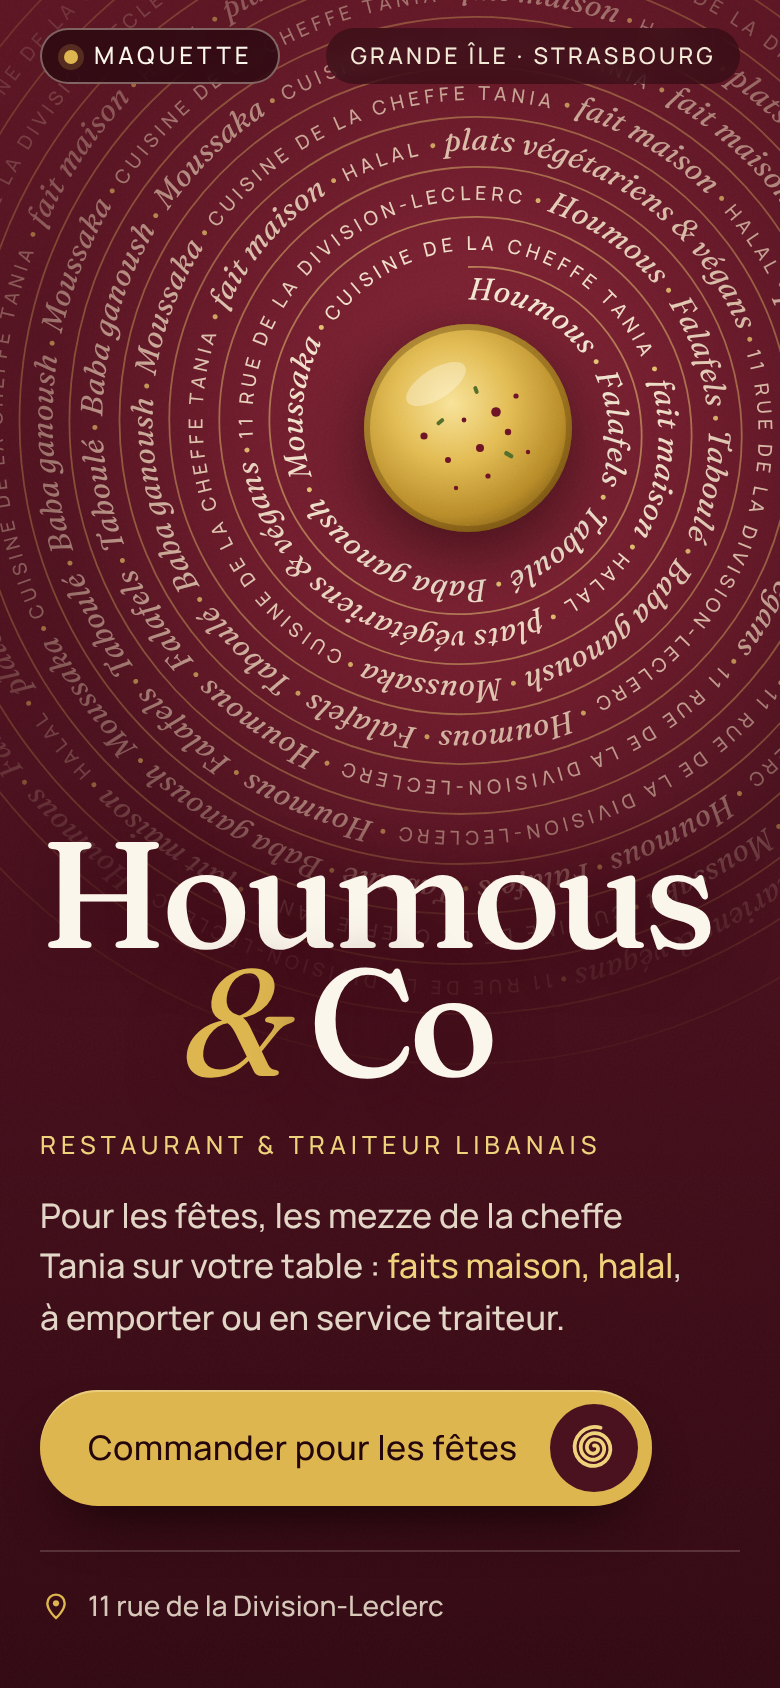
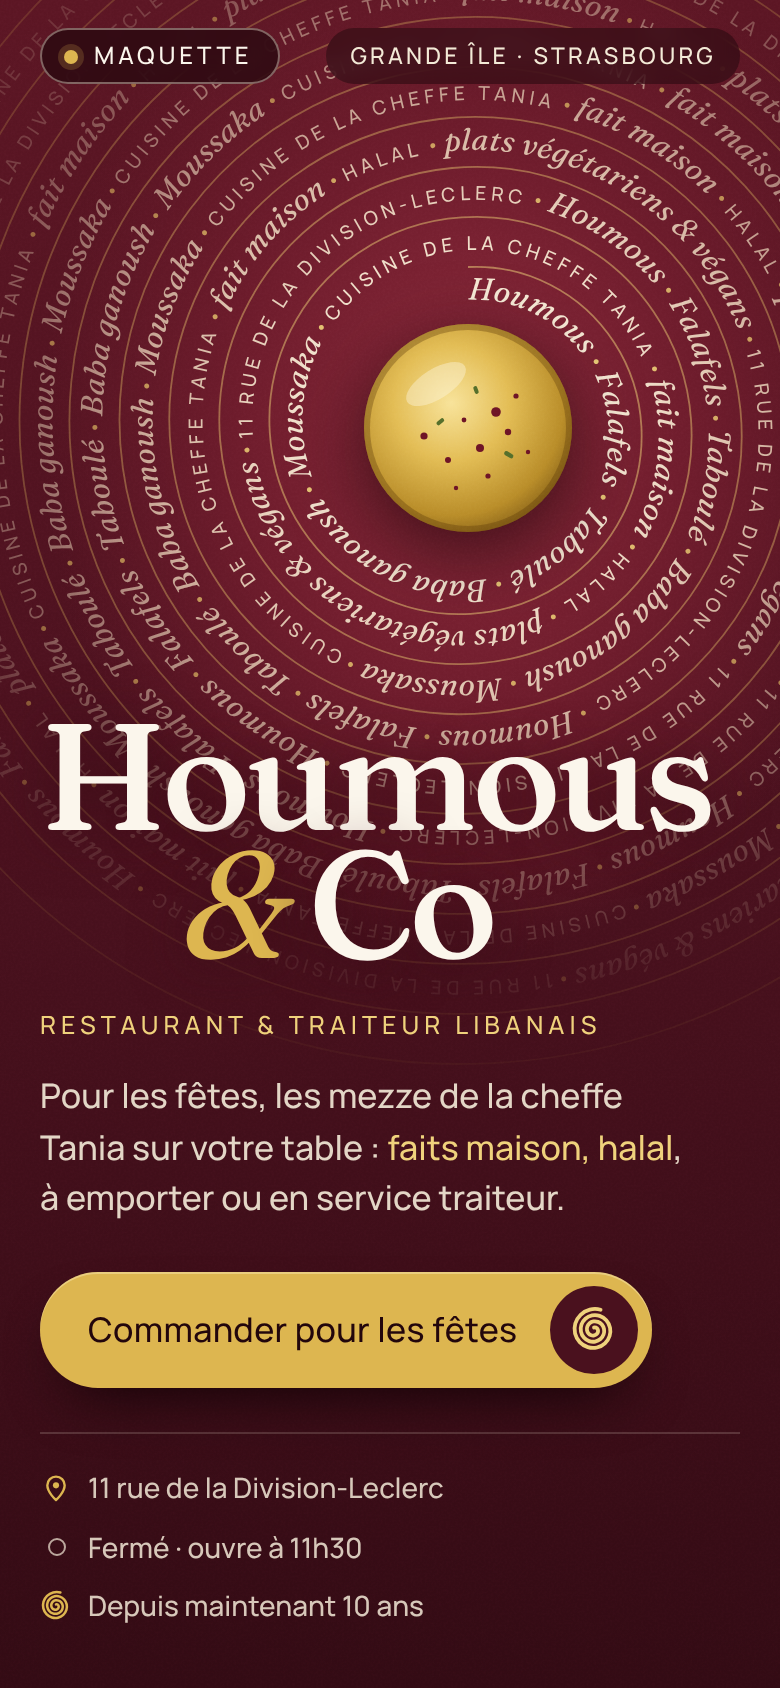
Lot du 17/11 : maquettes Bieber et Houmous & Co mises à jour avec les faits de leurs sites (en cours de revue)
Claude-Session: https://claude.ai/code/session_017W9xX3Z6MARgCjKNmo7Q8i

Changed region(s): [[0.0308, 0.4313, 0.9231, 0.955]]

diff --git a/prospection/lots/2026-11-17/web/demo/boucherie-natacha-bieber/index.html b/prospection/lots/2026-11-17/web/demo/boucherie-natacha-bieber/index.html
@@ -198,6 +198,8 @@ input:focus,textarea:focus{border-color:var(--sang)}
   color:var(--encre);text-decoration:none;font-size:13px;letter-spacing:.14em;text-transform:uppercase;text-align:center;transition:background-color .2s}
 .btn:hover{background:rgba(122,28,36,.07)}
 .btn small{display:block;font-size:14px;letter-spacing:.02em;text-transform:none;color:var(--encre-douce)}
+.seconde{margin:22px 0 0;padding-top:14px;border-top:1px solid var(--filet);color:var(--encre-douce);font-size:15px;line-height:1.45;max-width:560px}
+.seconde .capitale{display:block;margin-bottom:4px;color:var(--acier)}
 
 /* Pied de page */
 .pied{margin-top:72px;padding:0 0 112px}
@@ -386,13 +388,13 @@ dialog::backdrop{background:rgba(34,20,15,.74)}
           <p class="texte">Viande de boucherie et charcuterie maison. Prix et disponibilités&nbsp;: au comptoir ou au téléphone.</p>
         </div>
         <ul class="etiquettes revele">
-          <li><span class="etiquette" style="--r:-2.2deg"><span class="cat capitale">Bœuf</span><span class="plat">maturé</span></span></li>
-          <li><span class="etiquette" style="--r:1.6deg"><span class="cat capitale">Porc du Cantal</span><span class="plat">travers</span></span></li>
-          <li><span class="etiquette" style="--r:1.2deg"><span class="cat capitale">Agneau</span><span class="plat">côtelettes</span></span></li>
-          <li><span class="etiquette" style="--r:-1.8deg"><span class="cat capitale">Charcuterie maison</span><span class="plat">boudin brioché</span></span></li>
-          <li class="large"><span class="etiquette" style="--r:-.8deg"><span class="cat capitale">Charcuterie maison</span><span class="plat">jambon en croûte</span></span></li>
+          <li><span class="etiquette" style="--r:-2.2deg"><span class="cat capitale">Cochon fermier du Cantal</span><span class="plat">côte première</span></span></li>
+          <li><span class="etiquette" style="--r:1.6deg"><span class="cat capitale">Agneau</span><span class="plat">côtelettes doubles</span></span></li>
+          <li><span class="etiquette" style="--r:1.2deg"><span class="cat capitale">Porc noir de Bigorre</span><span class="plat">joues à la bière brune</span></span></li>
+          <li><span class="etiquette" style="--r:-1.8deg"><span class="cat capitale">Affinage</span><span class="plat">viande maturée</span></span></li>
+          <li class="large"><span class="etiquette" style="--r:-.8deg"><span class="cat capitale">Préparations maison</span><span class="plat">poitrine de veau farcie, paupiettes</span></span></li>
         </ul>
-        <p class="source capitale">Spécialités citées par le guide Gault&amp;Millau</p>
+        <p class="source capitale">Produits présentés sur natacha-bieber.fr (page Produits et fil Instagram)</p>
       </div>
     </section>
 
@@ -421,17 +423,18 @@ dialog::backdrop{background:rgba(34,20,15,.74)}
             <fieldset class="plein">
               <legend class="capitale">Ajouter une spécialité</legend>
               <div class="puces-liste">
-                <button type="button" class="puce" aria-pressed="false" data-ligne="Bœuf maturé">Bœuf maturé</button>
-                <button type="button" class="puce" aria-pressed="false" data-ligne="Côtelettes d’agneau">Côtelettes d’agneau</button>
-                <button type="button" class="puce" aria-pressed="false" data-ligne="Travers de porc du Cantal">Travers de porc du Cantal</button>
-                <button type="button" class="puce" aria-pressed="false" data-ligne="Boudin brioché">Boudin brioché</button>
-                <button type="button" class="puce" aria-pressed="false" data-ligne="Jambon en croûte">Jambon en croûte</button>
+                <button type="button" class="puce" aria-pressed="false" data-ligne="Côte première de cochon du Cantal">Côte première de cochon du Cantal</button>
+                <button type="button" class="puce" aria-pressed="false" data-ligne="Côtelettes d’agneau doubles">Côtelettes d’agneau doubles</button>
+                <button type="button" class="puce" aria-pressed="false" data-ligne="Joues de porc noir de Bigorre">Joues de porc noir de Bigorre</button>
+                <button type="button" class="puce" aria-pressed="false" data-ligne="Viande maturée">Viande maturée</button>
+                <button type="button" class="puce" aria-pressed="false" data-ligne="Poitrine de veau farcie">Poitrine de veau farcie</button>
+                <button type="button" class="puce" aria-pressed="false" data-ligne="Paupiettes de bœuf">Paupiettes de bœuf</button>
               </div>
             </fieldset>
 
             <div class="champ plein">
               <label for="commande" class="capitale">Votre commande</label>
-              <textarea id="commande" name="commande" rows="5" aria-describedby="aide-commande" placeholder="Par exemple&nbsp;: jambon en croûte pour huit, quatre côtelettes d’agneau…"></textarea>
+              <textarea id="commande" name="commande" rows="5" aria-describedby="aide-commande" placeholder="Par exemple&nbsp;: une poitrine de veau farcie pour six, quatre côtelettes d’agneau doubles…"></textarea>
               <p class="aide" id="aide-commande">Indiquez les quantités ou le nombre de personnes.</p>
               <p class="erreur" id="err-commande" hidden>Écrivez au moins un produit.</p>
             </div>
@@ -447,7 +450,7 @@ dialog::backdrop{background:rgba(34,20,15,.74)}
                   <input type="time" id="heure" name="heure" step="900" aria-describedby="aide-jour">
                 </div>
               </div>
-              <p class="aide" id="aide-jour">Fermé le lundi, en général le dimanche. Horaires à confirmer.</p>
+              <p class="aide" id="aide-jour">Fermé le lundi et le dimanche. Le mercredi, le matin seulement.</p>
               <p class="erreur" id="err-jour" hidden>Choisissez un jour de retrait.</p>
             </div>
 
@@ -479,20 +482,20 @@ dialog::backdrop{background:rgba(34,20,15,.74)}
       <p class="rail capitale"><span class="num">04</span><span>Les heures</span></p>
       <div class="heures-grille revele">
         <div>
-          <h2 id="t-heures">Nos heures, <em>à confirmer.</em></h2>
-          <p class="texte">Horaires indicatifs. Appelez-nous avant de passer, surtout pendant les fêtes&nbsp;: les horaires de fin d’année sont à confirmer.</p>
+          <h2 id="t-heures">Ouvert <em>du mardi au samedi.</em></h2>
+          <p class="texte">Le mercredi, le matin seulement. Pendant les fêtes, appelez avant de passer&nbsp;: les horaires de fin d’année sont à confirmer.</p>
         </div>
         <div>
         <dl class="heures">
           <div class="ferme" data-j="1"><dt>Lundi</dt><dd>Fermé</dd></div>
-          <div data-j="2"><dt>Mardi</dt><dd>À confirmer</dd></div>
-          <div data-j="3"><dt>Mercredi</dt><dd>À confirmer</dd></div>
-          <div data-j="4"><dt>Jeudi</dt><dd>À confirmer</dd></div>
-          <div data-j="5"><dt>Vendredi</dt><dd>À confirmer</dd></div>
-          <div data-j="6"><dt>Samedi</dt><dd>À confirmer</dd></div>
-          <div class="ferme" data-j="0"><dt>Dimanche</dt><dd>En général fermé</dd></div>
+          <div data-j="2"><dt>Mardi</dt><dd>8h30–12h30 · 15h–18h30</dd></div>
+          <div data-j="3"><dt>Mercredi</dt><dd>8h30–12h30</dd></div>
+          <div data-j="4"><dt>Jeudi</dt><dd>8h30–12h30 · 15h–18h30</dd></div>
+          <div data-j="5"><dt>Vendredi</dt><dd>8h30–12h30 · 15h–18h30</dd></div>
+          <div data-j="6"><dt>Samedi</dt><dd>8h30–15h30</dd></div>
+          <div class="ferme" data-j="0"><dt>Dimanche</dt><dd>Fermé</dd></div>
         </dl>
-        <p class="source capitale">Lundi et dimanche&nbsp;: horaires saisis par des internautes, à vérifier</p>
+        <p class="source capitale">Horaires de la page Contact de natacha-bieber.fr</p>
         </div>
       </div>
     </section>
@@ -512,13 +515,14 @@ dialog::backdrop{background:rgba(34,20,15,.74)}
           <a class="btn" href="tel:+33390238738"><span>Appeler<small>03 90 23 87 38</small></span></a>
           <a class="btn" href="https://www.google.com/maps/search/?api=1&amp;query=17%20rue%20de%20la%20Croix%2C%2067000%20Strasbourg" target="_blank" rel="noopener"><span>Itinéraire<small>Google Maps</small></span></a>
         </div>
+        <p class="seconde"><span class="capitale">Seconde boutique · Neudorf</span>113 route du Polygone, 67100 Strasbourg</p>
       </div>
     </section>
   </main>
 
   <footer class="pied">
     <div class="regle" aria-hidden="true"></div>
-    <p>Sources publiques&nbsp;: acceslibre (adresse, téléphone), guides Gault&amp;Millau et Le Fooding (histoire, spécialités), au-magasin.fr (jours de fermeture saisis par des internautes, à vérifier).</p>
+    <p>Sources publiques&nbsp;: site natacha-bieber.fr (horaires, produits, seconde boutique), acceslibre (adresse, téléphone), guides Gault&amp;Millau et Le Fooding (histoire).</p>
     <p>Page de démonstration non officielle&nbsp;: aucune commande n’est transmise.</p>
     <p class="signature">Maquette préparée par BRUNFRAME</p>
   </footer>
@@ -609,15 +613,35 @@ dialog::backdrop{background:rgba(34,20,15,.74)}
   });
   ta.addEventListener("input", function () { synchroniser(); effacer(ta); });
 
+  /* Horaires de la page Contact de natacha-bieber.fr (0 = dimanche) */
+  var HORAIRES = {
+    0: [], 1: [],
+    2: [["08:30", "12:30"], ["15:00", "18:30"]],
+    3: [["08:30", "12:30"]],
+    4: [["08:30", "12:30"], ["15:00", "18:30"]],
+    5: [["08:30", "12:30"], ["15:00", "18:30"]],
+    6: [["08:30", "15:30"]]
+  };
+  var JOURS = ["dimanche", "lundi", "mardi", "mercredi", "jeudi", "vendredi", "samedi"];
+  function hh(t) { return t.replace(/^0/, "").replace(":00", "h").replace(":", "h"); }
+  function plages(j) { return HORAIRES[j].map(function (p) { return "de\u00a0" + hh(p[0]) + " à\u00a0" + hh(p[1]); }).join(" et "); }
+  function ouvert(j, t) { return HORAIRES[j].some(function (p) { return t >= p[0] && t <= p[1]; }); }
+
   var AIDE_JOUR = aideJour.textContent;
-  jour.addEventListener("change", function () {
-    effacer(jour);
+  function majAideJour() {
     if (!jour.value) { aideJour.textContent = AIDE_JOUR; aideJour.classList.remove("alerte"); return; }
     var j = new Date(jour.value + "T12:00:00Z").getUTCDay();
-    if (j === 1) { aideJour.textContent = "Le lundi, la boutique est fermée (à confirmer). Un autre jour\u00a0?"; aideJour.classList.add("alerte"); }
-    else if (j === 0) { aideJour.textContent = "Le dimanche, la boutique est en général fermée (à confirmer). Un autre jour\u00a0?"; aideJour.classList.add("alerte"); }
-    else { aideJour.textContent = AIDE_JOUR; aideJour.classList.remove("alerte"); }
-  });
+    var nomJour = JOURS[j].charAt(0).toUpperCase() + JOURS[j].slice(1);
+    if (!HORAIRES[j].length) {
+      aideJour.textContent = "Le " + JOURS[j] + ", la boutique est fermée. Un autre jour\u00a0?"; aideJour.classList.add("alerte");
+    } else if (heure.value && !ouvert(j, heure.value)) {
+      aideJour.textContent = "À cette heure, la boutique est fermée. " + nomJour + "\u00a0: retrait " + plages(j) + "."; aideJour.classList.add("alerte");
+    } else {
+      aideJour.textContent = nomJour + "\u00a0: retrait " + plages(j) + "."; aideJour.classList.remove("alerte");
+    }
+  }
+  jour.addEventListener("change", function () { effacer(jour); majAideJour(); });
+  heure.addEventListener("change", majAideJour);
   [nom, tel].forEach(function (c) { c.addEventListener("input", function () { effacer(c); }); });
 
   function erreurDe(c) { return document.getElementById("err-" + c.id); }

diff --git a/prospection/lots/2026-11-17/web/demo/houmous-co/index.html b/prospection/lots/2026-11-17/web/demo/houmous-co/index.html
@@ -79,6 +79,8 @@ h1 em{font-weight:400;color:var(--huile-400);letter-spacing:0;margin-right:.12em
 .hero-meta{list-style:none;margin:22px 0 0;padding:16px 0 0;border-top:1px solid #f3ead72e;display:flex;flex-wrap:wrap;gap:8px 20px;font-size:14px;color:#f3ead7d9}
 .hero-meta li{display:flex;align-items:center;gap:8px}
 .hero-meta .ico{color:var(--huile-400);width:16px;height:16px}
+.hero-meta .point{width:9px;height:9px;margin:0 3px 0 4px;border-radius:50%;background:var(--olive-300);box-shadow:0 0 0 3px #bccb9533;flex:none}
+.hero-meta .ferme .point{background:transparent;border:1.5px solid #f3ead7b3;box-shadow:none}
 
 /* ---------- Bandeau des fêtes ---------- */
 .fetes{position:relative;overflow:hidden;background:var(--huile-400);color:var(--sumac-950);padding:46px 0 50px}
@@ -369,6 +371,8 @@ dialog::backdrop{background:#12030799;-webkit-backdrop-filter:blur(4px);backdrop
     <a class="cta" href="#commande" id="cta-haut"><span>Commander pour les fêtes</span><span class="cta-rond" aria-hidden="true"><svg><use href="#mini"/></svg></span></a>
     <ul class="hero-meta">
       <li><svg class="ico" aria-hidden="true"><use href="#i-pin"/></svg>11 rue de la Division-Leclerc</li>
+      <li id="statut"><span class="point" aria-hidden="true"></span><span id="statut-txt">Lun–jeu 11h30–21h30 · ven–sam 11h30–22h00</span></li>
+      <li><svg class="ico" aria-hidden="true"><use href="#mini"/></svg>Depuis maintenant 10 ans</li>
     </ul>
   </div>
 </header>
@@ -496,7 +500,7 @@ dialog::backdrop{background:#12030799;-webkit-backdrop-filter:blur(4px);backdrop
       <h2 id="t-infos" class="apparait">En plein centre, <em>sur la Grande Île.</em></h2>
       <div class="infos-grille">
         <div class="apparait">
-          <h3>Horaires <span class="tag">à confirmer</span></h3>
+          <h3>Horaires</h3>
           <table class="horaires">
             <tbody>
               <tr data-jour="0"><th scope="row">Lundi</th><td>11h30 – 21h30</td></tr>
@@ -508,7 +512,7 @@ dialog::backdrop{background:#12030799;-webkit-backdrop-filter:blur(4px);backdrop
               <tr data-jour="6"><th scope="row">Dimanche</th><td>Fermé</td></tr>
             </tbody>
           </table>
-          <p class="note-h">Horaires relevés sur des annuaires en ligne, qui ne concordent pas tous pour le vendredi et le samedi.</p>
+          <p class="note-h">Horaires indiqués sur le site du restaurant.</p>
         </div>
         <div class="apparait">
           <h3>Adresse</h3>
@@ -531,7 +535,7 @@ dialog::backdrop{background:#12030799;-webkit-backdrop-filter:blur(4px);backdrop
       <p class="pied-nom">Houmous <em>&amp;</em> Co</p>
       <p>Restaurant et traiteur libanais<br>11 rue de la Division-Leclerc, 67000 Strasbourg</p>
     </div>
-    <p class="sources">Spécialités et horaires relevés sur des annuaires publics (Rankeat, HappyCow, Wanderlog, Spinach).</p>
+    <p class="sources">Horaires relevés sur le site du restaurant. Spécialités relevées sur des annuaires publics (Rankeat, HappyCow, Wanderlog, Spinach).</p>
     <p class="avert">Page de démonstration non officielle&nbsp;: aucune commande n'est transmise.</p>
     <p class="credit">Maquette préparée par BRUNFRAME</p>
   </div>
@@ -581,6 +585,26 @@ dialog::backdrop{background:#12030799;-webkit-backdrop-filter:blur(4px);backdrop
   }
   var maintenant = paris();
   var jourIdx = (maintenant.getDay() + 6) % 7;
+
+  /* Horaires du site du restaurant, en minutes (index 0 = lundi ; null = fermé) */
+  var HORAIRES = [[690, 1290], [690, 1290], [690, 1290], [690, 1290], [690, 1320], [690, 1320], null];
+  var JOURS = ["lundi", "mardi", "mercredi", "jeudi", "vendredi", "samedi", "dimanche"];
+  function hm(m) { return Math.floor(m / 60) + "h" + pad(m % 60); }
+  function hhmm(m) { return pad(Math.floor(m / 60)) + ":" + pad(m % 60); }
+
+  /* Ouvert / fermé, à l'heure de Paris */
+  (function () {
+    var li = document.getElementById("statut"), txt = document.getElementById("statut-txt");
+    if (!li || !txt) return;
+    var m = maintenant.getHours() * 60 + maintenant.getMinutes(), h = HORAIRES[jourIdx];
+    if (h && m >= h[0] && m < h[1]) { txt.textContent = "Ouvert · jusqu'à " + hm(h[1]); return; }
+    li.classList.add("ferme");
+    if (h && m < h[0]) { txt.textContent = "Fermé · ouvre à " + hm(h[0]); return; }
+    for (var k = 1; k <= 7; k++) {
+      var j = (jourIdx + k) % 7;
+      if (HORAIRES[j]) { txt.textContent = "Fermé · ouvre " + (k === 1 ? "demain" : JOURS[j]) + " à " + hm(HORAIRES[j][0]); return; }
+    }
+  })();
 
   /* Ligne du jour dans les horaires */
   var ligne = document.querySelector('.horaires tr[data-jour="' + jourIdx + '"]');
@@ -653,6 +677,15 @@ dialog::backdrop{background:#12030799;-webkit-backdrop-filter:blur(4px);backdrop
   var aujourdhui = maintenant.getFullYear() + "-" + pad(maintenant.getMonth() + 1) + "-" + pad(maintenant.getDate());
   form.elements.date.min = aujourdhui;
 
+  /* Créneaux de retrait = horaires du jour choisi */
+  function horairesDu(d) { return d ? HORAIRES[(new Date(d + "T12:00:00").getDay() + 6) % 7] : null; }
+  var champHeure = form.elements.heure;
+  champHeure.min = hhmm(690); champHeure.max = hhmm(1320);
+  form.elements.date.addEventListener("change", function () {
+    var h = horairesDu(form.elements.date.value);
+    if (h) { champHeure.min = hhmm(h[0]); champHeure.max = hhmm(h[1]); }
+  });
+
   /* Validation lisible */
   function champ(nom) { return form.elements[nom]; }
   function erreur(nom, texte) {
@@ -680,8 +713,12 @@ dialog::backdrop{background:#12030799;-webkit-backdrop-filter:blur(4px);backdrop
     if (!d) { erreur("date", "Choisissez le jour du retrait."); premiers.push("date"); }
     else if (d < aujourdhui) { erreur("date", "Choisissez une date à partir d'aujourd'hui."); premiers.push("date"); }
     else if (new Date(d + "T12:00:00").getDay() === 0) { erreur("date", "Nous sommes fermés le dimanche : choisissez un autre jour."); premiers.push("date"); }
-    var m = minutes(champ("heure").value);
-    if (champ("heure").value && (isNaN(m) || m < 690 || m > 1320)) { erreur("heure", "Retrait entre 11h30 et 21h30 (22h00 le vendredi et le samedi)."); premiers.push("heure"); }
+    var m = minutes(champ("heure").value), hj = horairesDu(d);
+    if (champ("heure").value) {
+      if (hj && (isNaN(m) || m < hj[0] || m > hj[1])) { erreur("heure", "Ce jour-là, retrait entre " + hm(hj[0]) + " et " + hm(hj[1]) + "."); premiers.push("heure"); }
+      else if (!hj && (isNaN(m) || m < 690 || m > 1320)) { erreur("heure", "Retrait entre 11h30 et 21h30 (22h00 le vendredi et le samedi)."); premiers.push("heure"); }
+      else if (d === aujourdhui && m <= maintenant.getHours() * 60 + maintenant.getMinutes()) { erreur("heure", "Cette heure est déjà passée : choisissez une heure plus tardive."); premiers.push("heure"); }
+    }
     if (!champ("nom").value.trim()) { erreur("nom", "Indiquez votre nom."); premiers.push("nom"); }
     var chiffres = champ("tel").value.replace(/\D/g, "");
     if (chiffres.length < 10) { erreur("tel", "Indiquez un numéro de téléphone complet."); premiers.push("tel"); }
